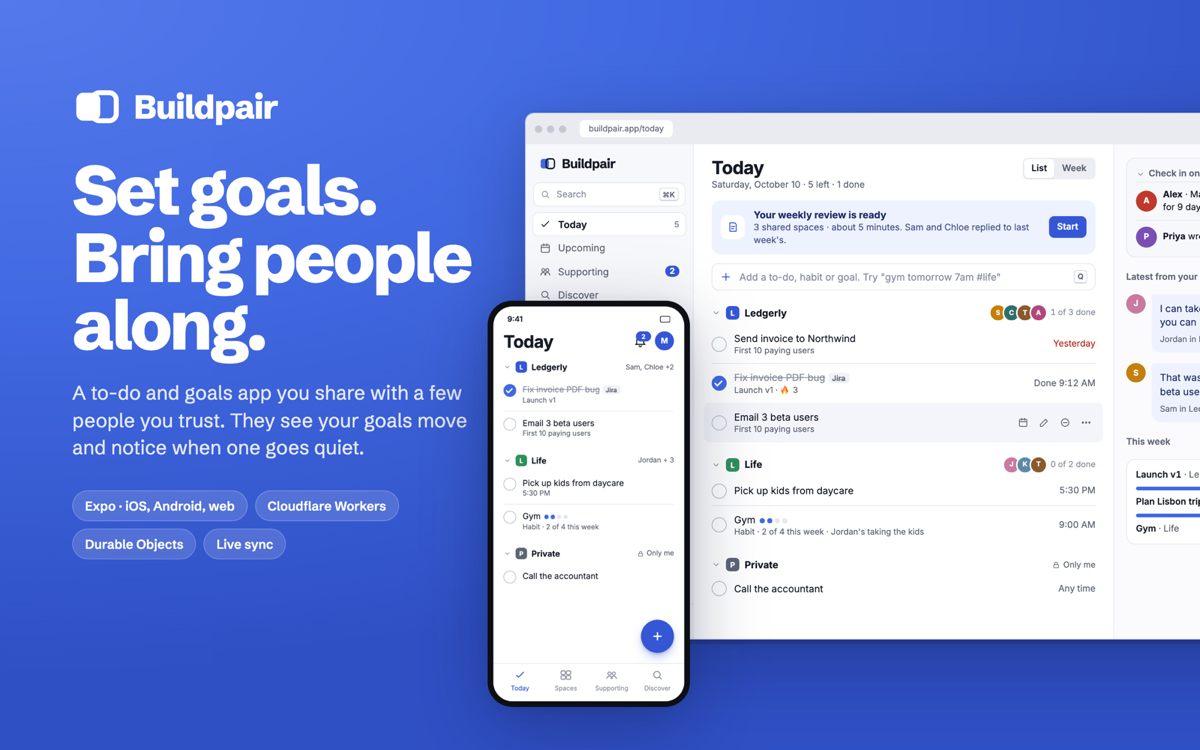
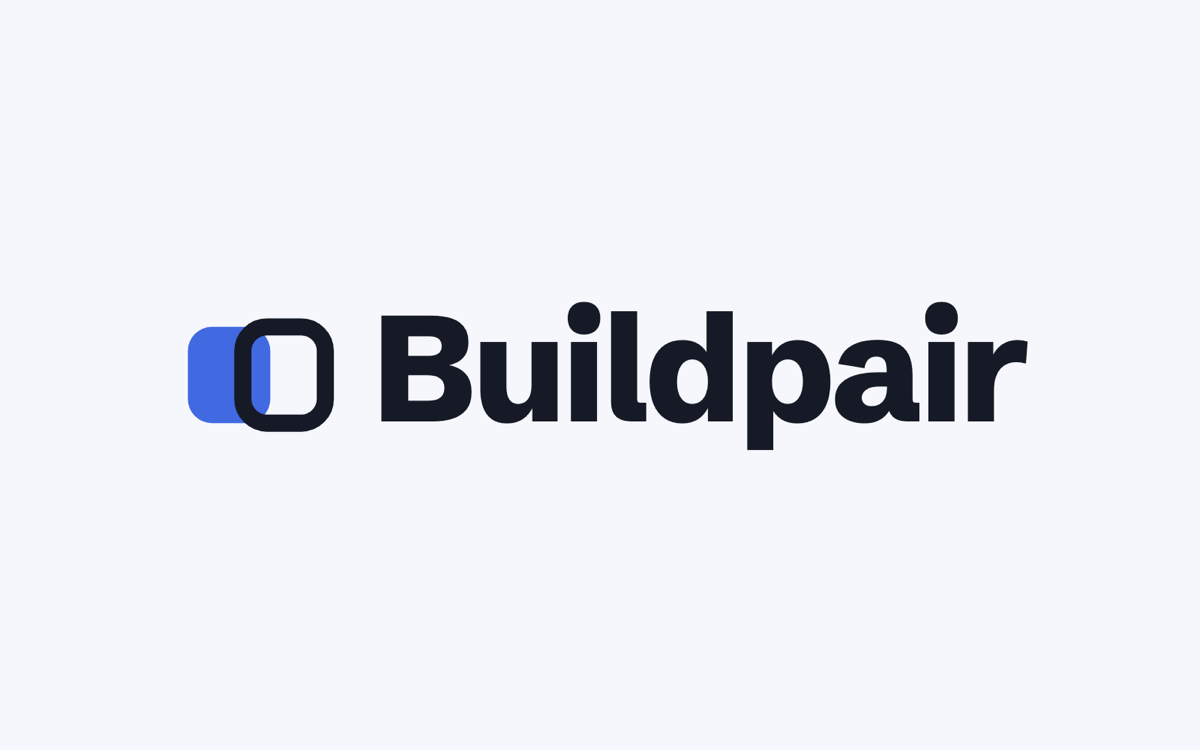
Portfolio: simpler Buildpair cover, warmer copy, screens in app order
Owner feedback. The cover is just the logo and the name, the write-up is
shorter and in first person, and the gallery starts at sign-in and follows
the app's flow.

diff --git a/corpus/portfolio/buildpair.md b/corpus/portfolio/buildpair.md
@@ -1,6 +1,6 @@
 ---
 title: Buildpair
-one_liner: A social to-do and goals app where a few trusted supporters keep your goals moving.
+one_liner: A to-do app you share with the few people who keep you honest.
 kind: personal
 year: 2026
 order: 1
@@ -9,97 +9,70 @@ links:
   code: https://github.com/hacka-tron/buildpair
 cover: buildpair/cover.png
 visuals:
-  - src: buildpair/desktop-space.png
-    alt: A space called Ledgerly on desktop, with its live chat in the middle, its open to-dos on the right and the people in it below
-    caption: A space is a list plus one chat. Finishing a to-do posts a line that supporters react to.
-    aspect: "16/10"
-  - src: buildpair/desktop-today.png
-    alt: Today view on desktop listing to-dos grouped by space, with each space's supporters shown as avatars
-    caption: Today pulls every space's to-dos into one list.
-    aspect: "16/10"
-  - src: buildpair/phone-space.png
-    alt: The Ledgerly space at phone width, with its to-dos above its chat
-    caption: The same space at phone width.
+  - src: buildpair/phone-signin.png
+    alt: Buildpair sign-in screen on a phone with the headline Set goals. Bring people along. and an email field
+    caption: Sign in with a code from your email. No password to remember.
     aspect: "9/19.5"
   - src: buildpair/phone-today.png
-    alt: Today view at phone width with a tab bar and a floating add button
-    caption: Today on a phone, with a tab bar and a floating add button.
+    alt: Today view on a phone with to-dos grouped by space and a floating add button
+    caption: Today shows what's due across every space.
     aspect: "9/19.5"
   - src: buildpair/phone-add.png
-    alt: Add to-do sheet at phone width with a title field, Today, Tomorrow or No date, and a choice of space
-    caption: Adding a to-do takes a title, a day and a space.
+    alt: Add to-do sheet on a phone with a title field, a choice of day and a choice of space
+    caption: Adding a to-do takes a few taps.
     aspect: "9/19.5"
-  - src: buildpair/desktop-invite.png
-    alt: Invite dialog over a space on desktop, with a join link and a Copy link button
-    caption: Anyone with a space's link joins it as a supporter.
+  - src: buildpair/phone-spaces.png
+    alt: Spaces list on a phone showing Ledgerly, Life and Running with the people in each
+    caption: A space for each part of your life, from a side project to a half marathon.
+    aspect: "9/19.5"
+  - src: buildpair/phone-space.png
+    alt: The Ledgerly space on a phone with its to-dos above its chat
+    caption: Every space is a list with a chat beside it.
+    aspect: "9/19.5"
+  - src: buildpair/desktop-today.png
+    alt: Today view on desktop with to-dos grouped by space and a sidebar of spaces
+    caption: The same app on desktop.
     aspect: "16/10"
-  - src: buildpair/landing.png
-    alt: Buildpair landing page with the headline Set goals. Bring people along. and a sign-up form that emails a code
-    caption: The landing page, with passwordless sign-up.
+  - src: buildpair/desktop-space.png
+    alt: The Ledgerly space on desktop with a completed to-do in the chat, reactions and replies from two friends
+    caption: Check something off and your friends see it right away.
+    aspect: "16/10"
+  - src: buildpair/desktop-invite.png
+    alt: Invite dialog on desktop with a join link and a Copy link button
+    caption: Bring someone in with a link.
     aspect: "16/10"
 draft: false
 ---
 
-## Buildpair: the problem it solves
+## Why I built Buildpair
 
-Builders such as founders, indie hackers and people shipping side projects usually work
-alone. Public feeds and maker communities turn into broadcasting with little back and
-forth, and to-do apps have no sense of anyone watching. Buildpair is a to-do and goals app
-for builders that you share with a few people you trust. They see your goals move, notice
-when one goes quiet, and tell you how it looks from the outside. The idea is that
-accountability comes from a small audience of specific people who are close enough to care
-and far enough from the work to be honest.
+Building something on your own gets lonely. You set a goal, nobody notices when it slips,
+and it fades away. I wanted a to-do app with a small audience. Not a public feed, just two
+or three people who care enough to ask how it's going.
 
-Buildpair is a work in progress. It runs on staging for invited people, production has not
-been released yet, and the code is public on GitHub. The screenshots are the real web app
-with made-up people.
+Buildpair is a to-do and goals app for builders that you share with a few people you trust.
+It's still a work in progress. It runs on a test site for invited people, and the code is
+on GitHub.
 
-## Buildpair: what I built
+## What Buildpair does
 
-Buildpair is one Expo (React Native) codebase for iOS, Android and the web, with a backend
-that runs entirely on Cloudflare.
+Everything lives in a space, like a side project, a training plan or family life. Each
+space is a list with a chat beside it. When you check something off, the chat says so, and
+your friends can cheer you on or ask what's next. If a goal goes quiet, they get a nudge to
+check in, so it feels like a friend reaching out and not an app nagging you.
 
-- **Spaces:** everything lives in a space, which is a list plus one chat, such as a product,
-  family life or training for a half marathon. Sharing is set per space, and any single item
-  can stay private inside a shared space.
-- **Updates come from the work itself:** ticking an item posts a line to the space's chat,
-  and supporters react and reply in real time.
-- **Supporters:** people you invite see progress, react and reply. When a goal goes quiet,
-  only they get a nudge, so a check-in reads as a friend reaching out.
-- **Invites by link:** anyone with a space's link can join it, the way group chats work.
-- **Offline first:** changes apply instantly on the device, queue while offline and sync on
-  reconnect with no duplicates.
-- **Passwordless sign-in:** people sign in with a 6-digit code sent by email.
+You invite people with a link, sign in with a code from your email, and keep working when
+you're offline.
 
-The app has a Today view across all spaces, a sidebar layout on desktop, and a tab bar with
-a floating add button on phones.
+## How Buildpair is built
 
-The API is Cloudflare Workers with Hono. Each space has its own Durable Object that owns its
-event log, chat and live WebSocket connections, and each person has one for their inbox.
-Space data lives in SQLite inside each Durable Object, global data in D1 with a Drizzle
-schema, and sign-in uses Better Auth with email codes. Zod schemas define every command,
-event and socket message under a versioned protocol.
+One Expo (React Native) codebase runs on iOS, Android and the web, and the backend runs on
+Cloudflare Workers.
 
-## Buildpair: what was interesting
+The part I'm proudest of is that each space has its own Durable Object that owns its event
+log, chat and live connections. Every space is its own tiny database, so it stays
+consistent without one central server in the way. The phone and the server also run the
+same rules code. The app updates instantly and the server still has the final say.
 
-**Each space is its own small database.** A Durable Object per space is the only writer for
-that space. It numbers every event, stores the log in its own SQLite database and runs the
-sockets for everyone in it. That gives strong consistency inside a space without a central
-database becoming the bottleneck.
-
-**One set of rules on the phone and on the server.** Every change to a space is a command
-handled by a pure `decide(state, command, actor)` function in a shared TypeScript package.
-The app runs it for instant optimistic updates and the server runs it for the authoritative
-decision, so the two never disagree about the rules. The sync engine keeps a persisted queue
-of pending commands with IDs, so retries are safe, and catches up on any gap in the event
-sequence when a socket reconnects.
-
-**Privacy enforced on the server.** Items marked "only visible to me" never reach other
-members. The server filters every event by who may see it, and each new event type gets a
-privacy test.
-
-**Every pull request is treated like production.** Each pull request gets its own API
-Worker, Durable Objects, D1 database and preview web app, removed when the pull request
-closes. Merges deploy to staging automatically, and production deploys only from an approved
-release. Browser tests run on every pull request, including one where two people sign in,
-join a space, chat live, react and see a completion line appear.
+Private items are filtered on the server so nobody else ever receives them, and every pull
+request gets its own full preview environment.

diff --git a/project/BACKLOG.md b/project/BACKLOG.md
@@ -56,7 +56,7 @@ No PRs open. Live state: `project/SNAPSHOT.md`. Playbooks: `orchestration/prompt
    - Check that "have you used X?" answers name both sides where the data has both. Phase 8 now retrieves both, but Nova Lite still drops a side for Redis and React sometimes. If it persists, try a two-sided approved example again, now that slots supply both chunks (v18 dropped it because it invented a work side).
    - Check the strict prompt's unsupported "favorite X" framing (golden cases are `known_failure`, see `status/2026-10-04-2144-rag-prompt-v18.md`).
 2. **Real portfolio projects** (the owner adds them; `project/PORTFOLIO_PROJECT.md`). The planned-marker exemption ("Open items from the portfolio backend") is still open; projects need it once a write-up uses planned wording.
-   - **Buildpair replaces GoalBuddy** (owner, 2026-10-15, `feat/portfolio-buildpair`): `corpus/portfolio/buildpair.md` is the only shown project; GoalBuddy is `draft: true` (file and images kept, so setting it back to `false` restores it). Written from Buildpair's `docs/portfolio/README.md`; it says production is not released and links only the public code repo (staging is invite-only). Decisions to roll back if unwanted: the card cover is Buildpair's marketing thumbnail, which comes from design concepts and shows unbuilt features (Supporting, weekly review); the gallery holds only real app screenshots (made-up people) plus the live landing page. Swap `cover.png` for a real screen if the cover should be strictly built features. Golden cases `me-portfolio-goalbuddy*` became `me-portfolio-buildpair*`; their paid answer eval is unverified.
+   - **Buildpair replaces GoalBuddy** (owner, 2026-10-15, `feat/portfolio-buildpair`): `corpus/portfolio/buildpair.md` is the only shown project; GoalBuddy is `draft: true` (file and images kept, so setting it back to `false` restores it). Written from Buildpair's `docs/portfolio/README.md`; it says production is not released and links only the public code repo (staging is invite-only). Owner feedback the same day (`content/portfolio-buildpair-polish`): the cover is now just the logo mark and the word Buildpair (rendered in Schibsted Grotesk from Buildpair's `mark.svg`), the write-up is shorter and warmer in first person, and the gallery follows the app's flow from sign-in to Today, adding, spaces, a space, then desktop and invites (landing page dropped). Golden cases `me-portfolio-goalbuddy*` became `me-portfolio-buildpair*`; their paid answer eval is unverified.
    - **GoalBuddy** (2026-10-07, `content/portfolio-goalbuddy`): first real project, code link only (the app is a work in progress). Decisions to roll back if unwanted: the body avoids every planned-marker word, so it shipped without the exemption; it claims only what is on GoalBuddy's public `main` (the web preview, connection-goals and authz work are local branches there, so it says Android only); screenshots come from GoalBuddy's web preview against its local dev DB (test accounts only); `portfolio.test.ts` no longer pins an empty corpus. New optional `cover` field (owner request: a thumbnail-style card picture kept out of the gallery); GoalBuddy uses its sign-in icon. Follow-up (minor, #200 review): `portfolio.py` lacks the frontend's image-extension and hidden-file rule for `src`/`cover` (the build still rejects them), and a missing cover is reported as "visual …". Live 2026-10-07 (#200): card, cover, details sheet and screenshots checked on basel.engineering, and "Tell me about GoalBuddy" answers from the write-up. Golden cases (prerequisite 2) are now unblocked. Share links (owner request, 2026-10-07): `?project=goalbuddy` and `?topic=basel|system|portfolio`; the address bar follows the view, replaced in place (owner, 2026-10-08); they never auto-ask the chatbot (decision: a shared link must not spend an answer per visit).
 3. **CSP enforce:** after about 2026-10-08, the owner runs Ops · Diagnose on a few days. If the "CSP Report-Only violations" section is quiet, switch to enforcing ("Security" section).
 4. **Small follow-ups:**
